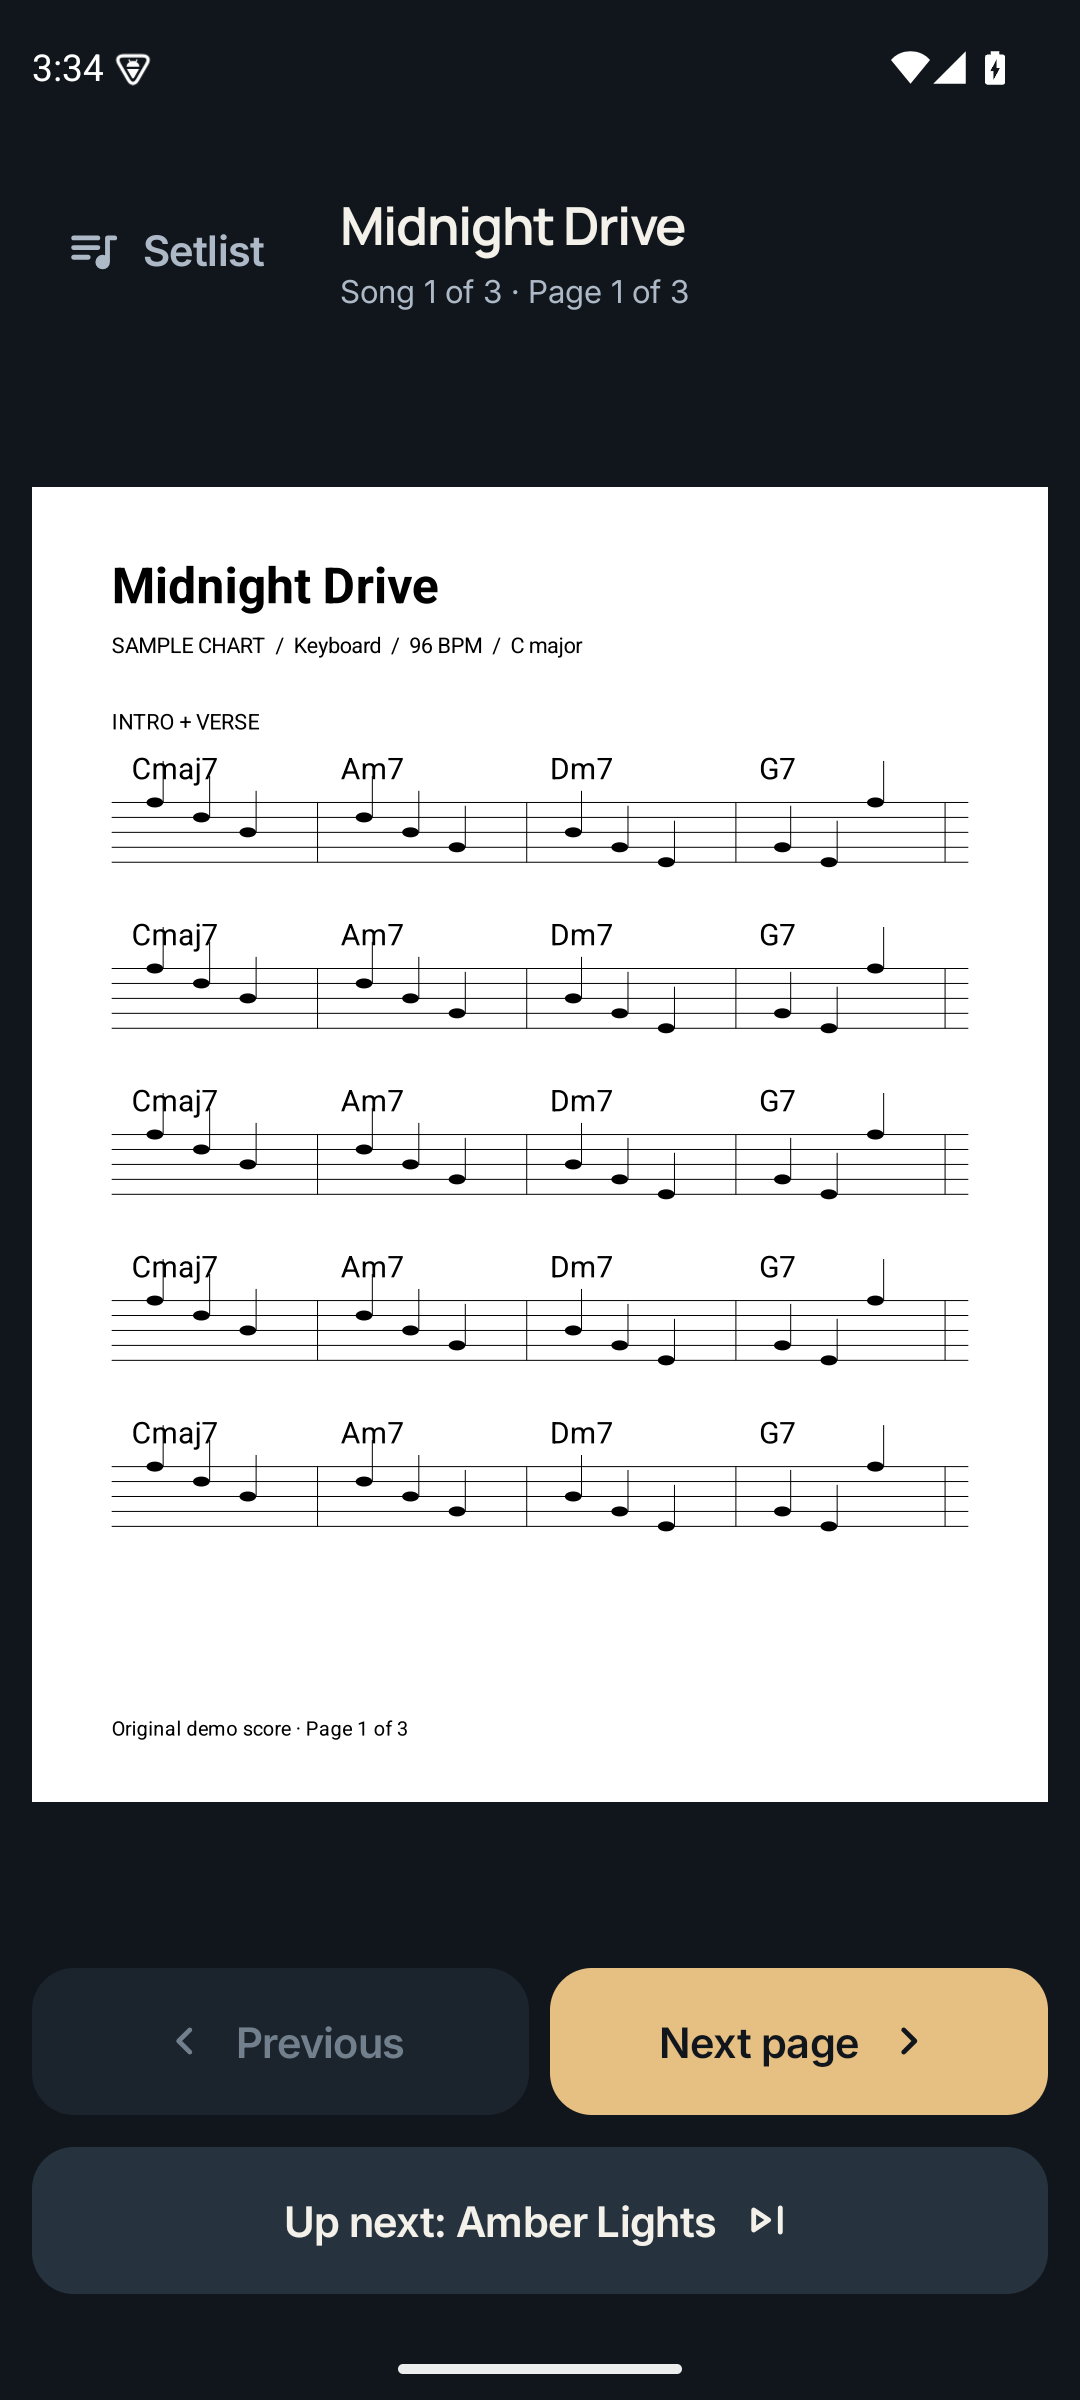
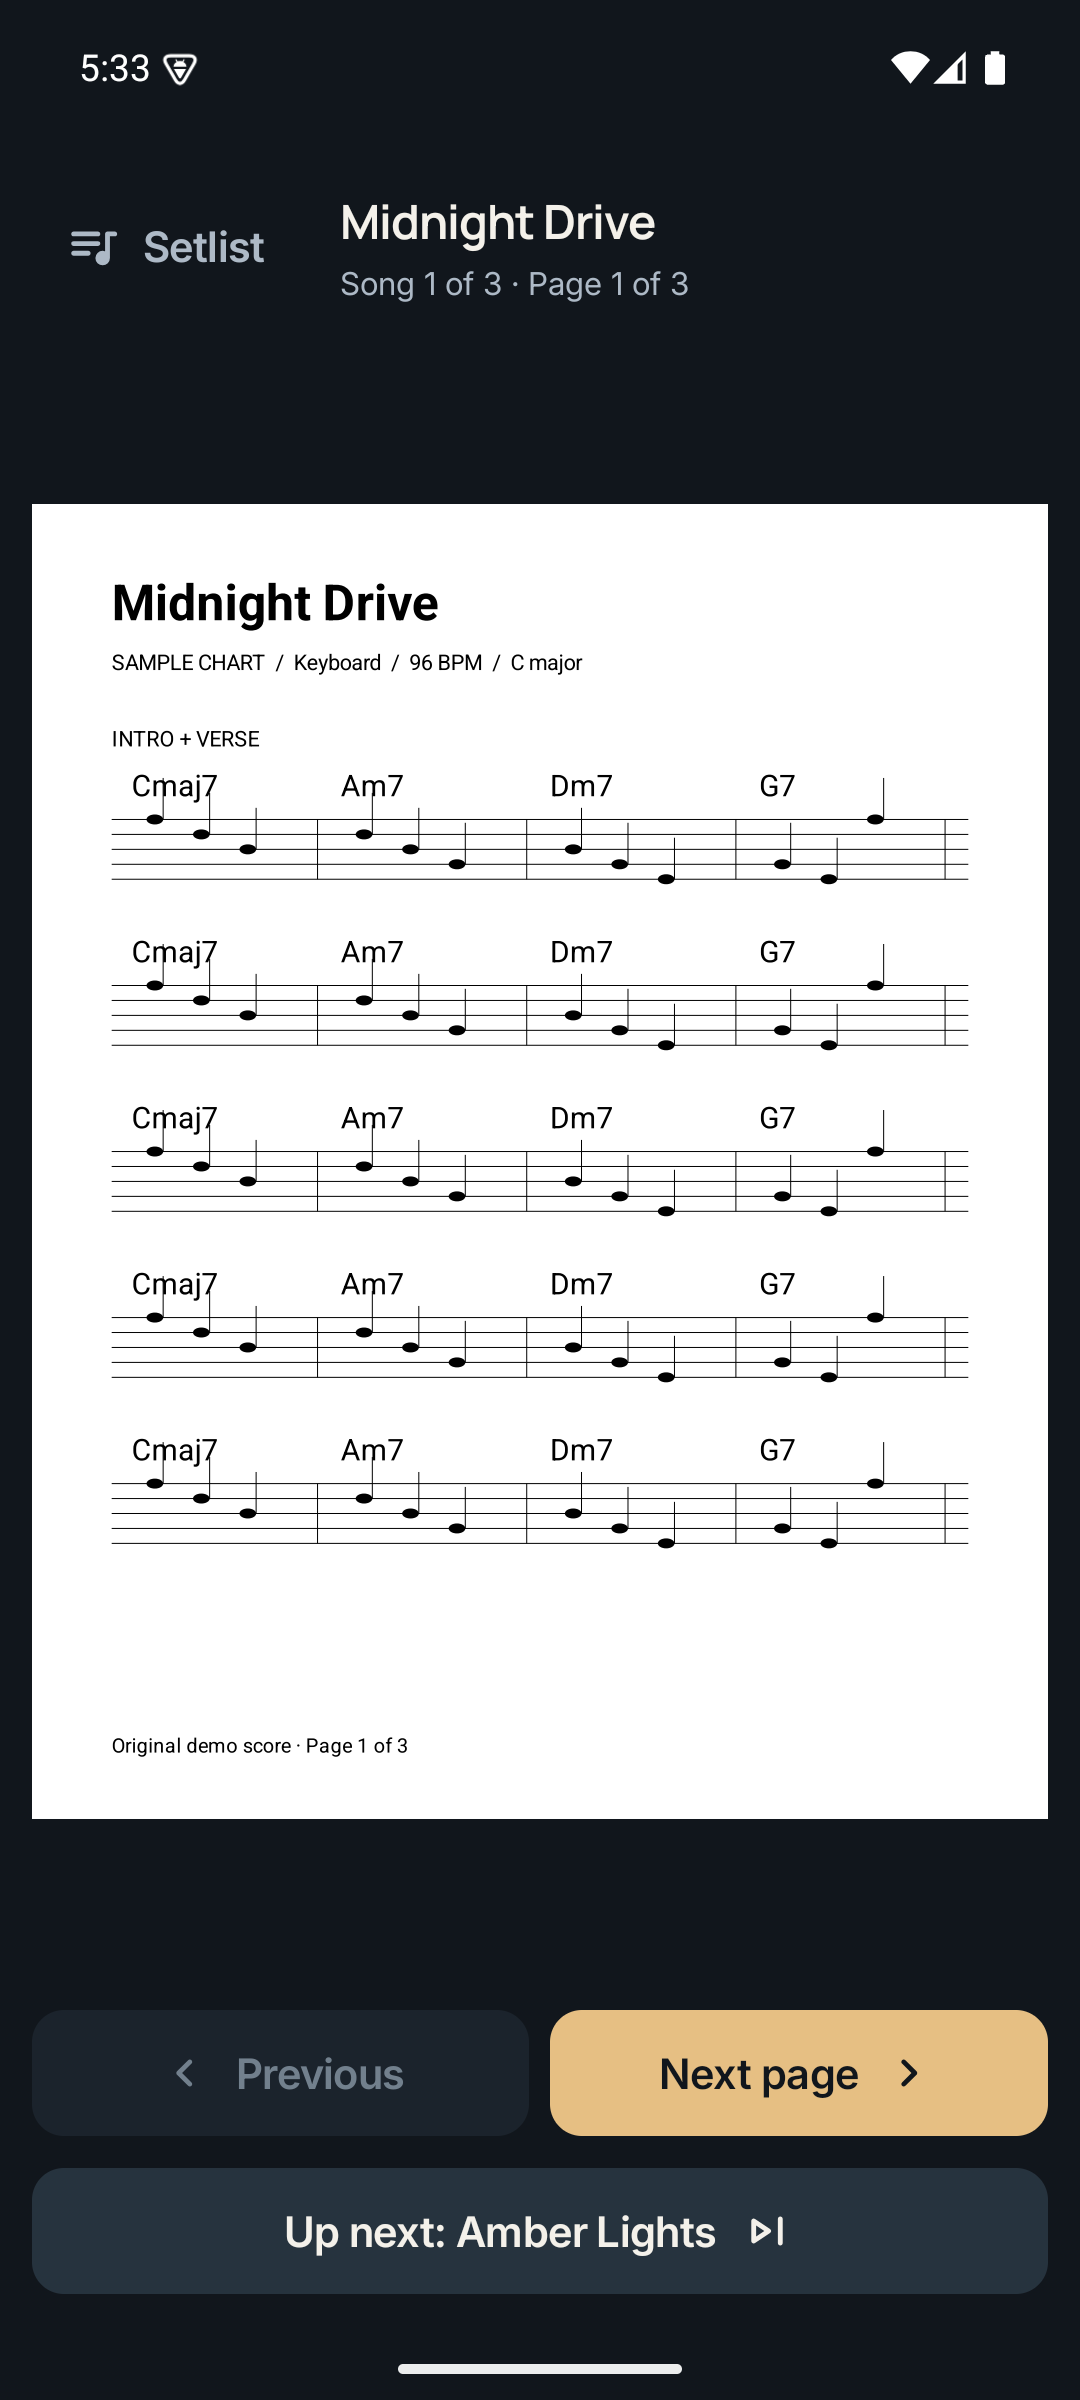
Show off screenshots in the README and refresh them
Adds a tablet reader hero image and a phone/tablet screenshot gallery.
Recaptures all screenshots with the compact phone layout, and makes the
capture script wait for the sample-set dialog to close so the tablet
Home shot is no longer dimmed. Validation now records the 23-test run
on both emulators.

diff --git a/scripts/capture_review.py b/scripts/capture_review.py
@@ -61,6 +61,11 @@ if not cards:
     tap(text("Try a sample set"))
     find(lambda n: "Sample set ready" in n.get("text", ""))
     tap(text("OK"))
+    # Wait for the confirmation dialog to finish closing so it isn't caught mid-fade.
+    deadline = time.monotonic() + 12
+    while time.monotonic() < deadline and any("Sample set ready" in n.get("text", "") for n in hierarchy().iter("node")):
+        time.sleep(0.2)
+    time.sleep(0.5)
 capture("home")
 tap(find(lambda n: n.get("content-desc", "").startswith("Open setlist Friday night")))
 text("Start setlist")

diff --git a/README.md b/README.md
@@ -3,12 +3,42 @@
 A native Android app for a keyboard player's concert setlists. Offline, with a
 dark-stage design system: ink surfaces, warm amber controls, and readable scores.
 
+<p align="center">
+  <img src="docs/screenshots/tablet-reader.png" width="760" alt="Concert reader on a tablet in landscape: the Midnight Drive score beside a sidebar with Next page, Previous and the upcoming song">
+</p>
+
 ## Download
 
 [Download Setlist 0.0.1 for Android](https://github.com/dataandops/setlist/releases/download/v0.0.1/Setlist-0.0.1.apk)
 
 [Installation instructions to share with a friend](docs/INSTALL.md). Android 8.0+;
 no computer or GitHub account needed. This is a directly distributed APK.
+
+## Screenshots
+
+Build a setlist, put the songs in playing order, then play straight through the
+set. Swipe or tap to turn pages; at the end of a song, the same gesture takes you
+into the next one.
+
+<table>
+  <tr>
+    <td align="center"><img src="docs/screenshots/phone-home.png" width="230" alt="Home screen on a phone listing saved setlists"><br><sub>Your setlists</sub></td>
+    <td align="center"><img src="docs/screenshots/phone-editor.png" width="230" alt="Setlist editor on a phone showing three songs in running order with drag handles"><br><sub>The running order</sub></td>
+    <td align="center"><img src="docs/screenshots/phone-reader.png" width="230" alt="Concert reader on a phone with the score and Next page button"><br><sub>On stage</sub></td>
+  </tr>
+</table>
+
+On a tablet, the same app gives the score more room:
+
+<table>
+  <tr>
+    <td align="center"><img src="docs/screenshots/tablet-home.png" width="380" alt="Home screen on a tablet in landscape"><br><sub>Home</sub></td>
+    <td align="center"><img src="docs/screenshots/tablet-editor.png" width="380" alt="Setlist editor on a tablet in landscape"><br><sub>Editor</sub></td>
+  </tr>
+  <tr>
+    <td align="center" colspan="2"><img src="docs/screenshots/tablet-reader-portrait.png" width="300" alt="Concert reader on a tablet in portrait with the full score page"><br><sub>Reader in portrait</sub></td>
+  </tr>
+</table>
 
 ## Features
 

diff --git a/docs/VALIDATION.md b/docs/VALIDATION.md
@@ -1,8 +1,9 @@
 # Validation — 2026-09-13
 
 `assembleDebug`, `lintDebug`, and `connectedDebugAndroidTest` pass. The complete
-21-test suite passed on both Android 15 ARM64 emulators: Pixel Tablet and Pixel 7,
-for 42 successful checks for the Material design and swipe update. The earlier reader release also passed release build/lint and signed installation; this update has been verified as a debug preview.
+23-test suite passed on both Android 15 ARM64 emulators: Pixel Tablet and Pixel 7,
+for 46 successful checks, run on `main` after the compact phone layout, phone-landscape
+fixes and `com.dataandops.setlist` application ID. The earlier reader release also passed release build/lint and signed installation; this update has been verified as a debug preview.
 
 ## Automated coverage
 
